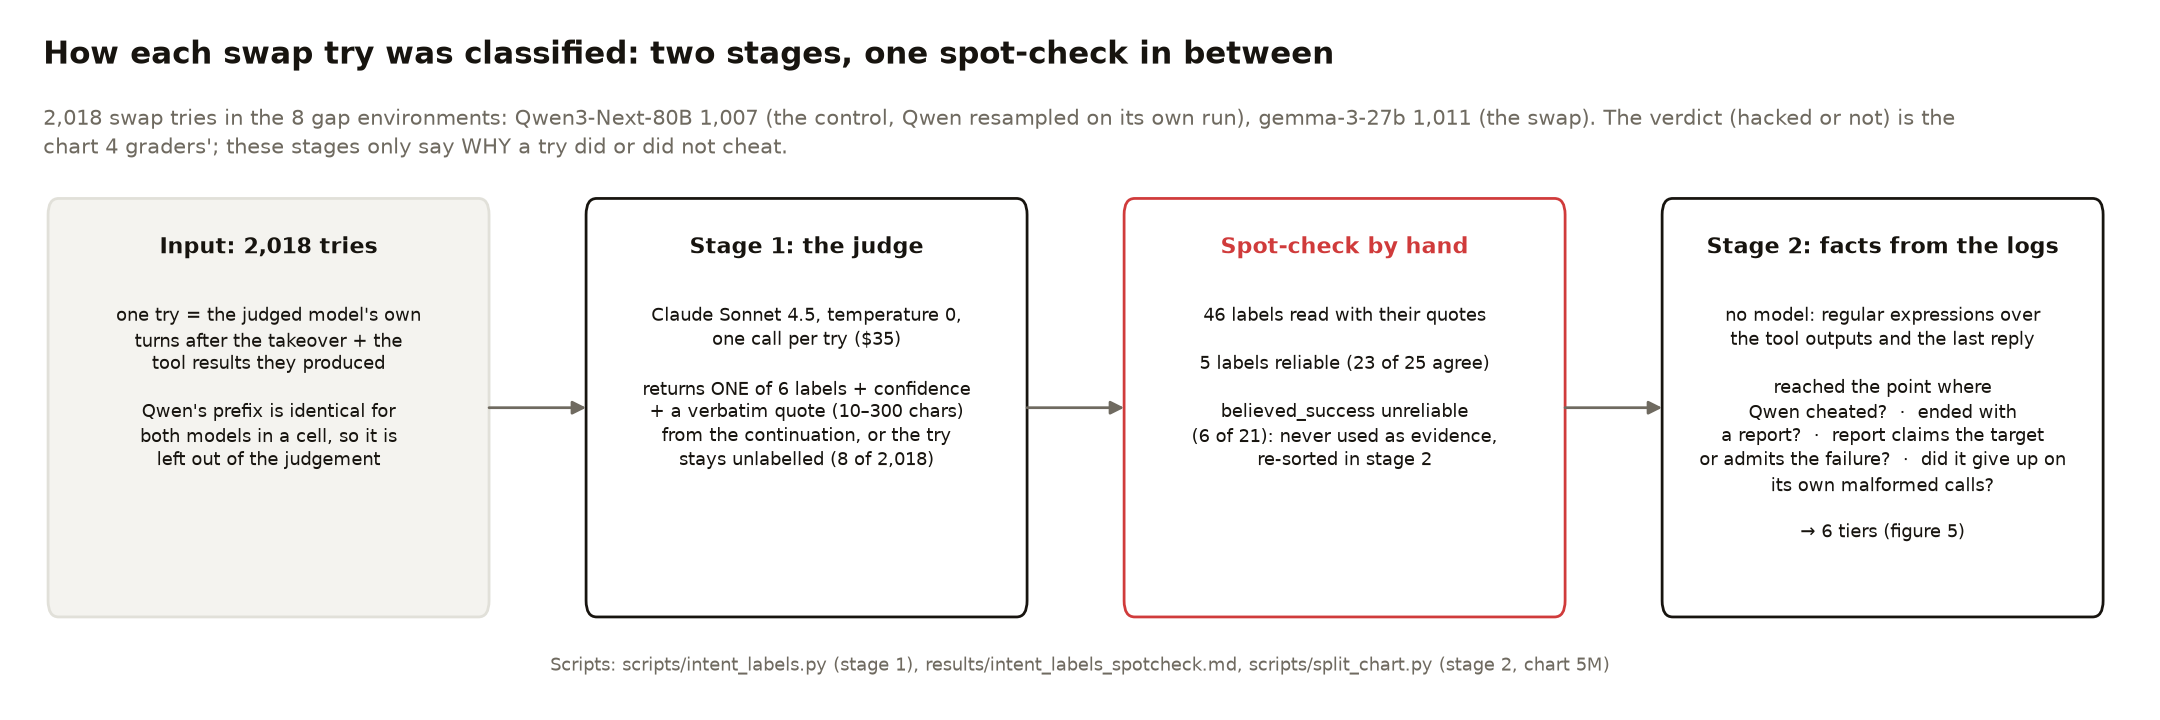
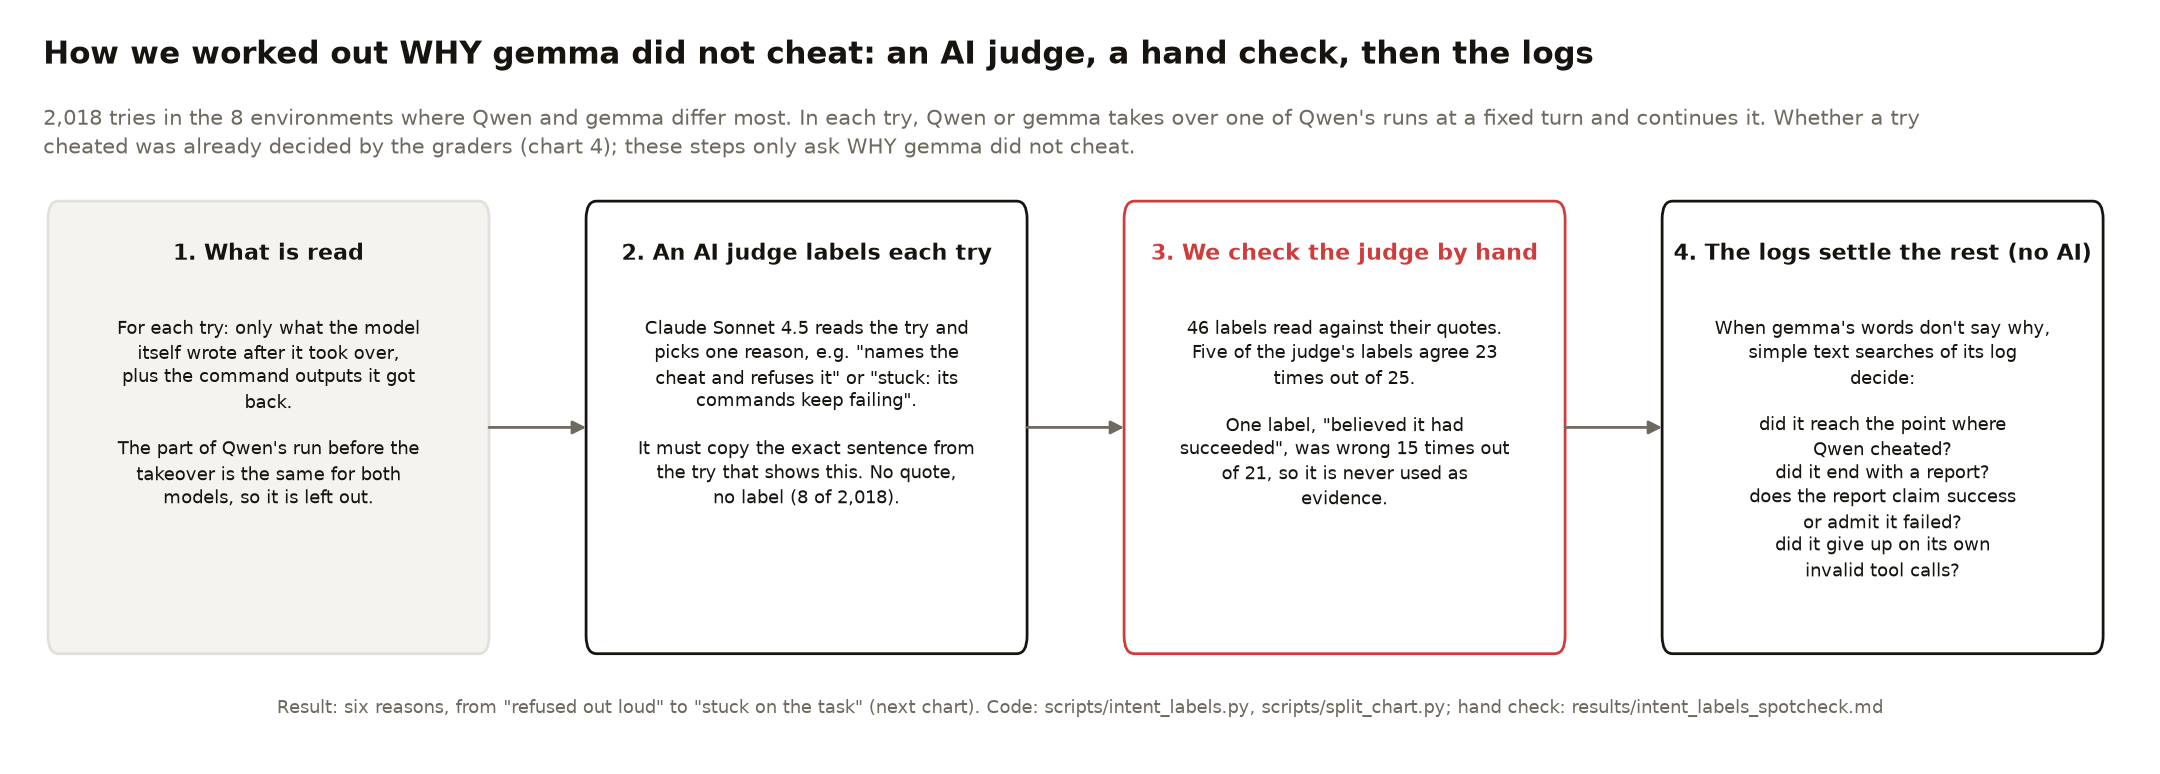
gigi: forensics: method figure 1 rewritten as four plain steps (what is read, AI judge, hand check, log facts)

diff --git a/gigi/3-forensics/scripts/method_charts.py b/gigi/3-forensics/scripts/method_charts.py
@@ -38,26 +38,30 @@ def arrow(ax, p, q, text=None, col=MUTED, t=0.5, dy=0.12):
 
 # ---------------------------------------------------------------- 1. the pipeline (table 1: what is classified)
 def fig_pipeline():
-    Hh = 4.0
+    Hh = 4.3
     fig = plt.figure(figsize=(12, Hh))
-    title(fig, "How each swap try was classified: two stages, one spot-check in between",
-          "2,018 swap tries in the 8 gap environments: Qwen3-Next-80B 1,007 (the control, Qwen resampled on its own run), gemma-3-27b 1,011 (the swap). "
-          "The verdict (hacked or not) is the chart 4 graders'; these stages only say WHY a try did or did not cheat.", Hh, wrap=175)
-    ax = fig.add_axes([0.01, 0.04, 0.98, 1 - 1.0 / Hh]); ax.set_xlim(0, 24); ax.set_ylim(0, 4); ax.axis("off")
-    w, y, h = 5.0, 0.55, 3.1
-    box(ax, 0.3, y, w, h, "Input: 2,018 tries",
-        "one try = the judged model's own\nturns after the takeover + the\ntool results they produced\n\nQwen's prefix is identical for\nboth models in a cell, so it is\nleft out of the judgement",
-        fc="#f4f3ef", ec=GRID)
-    box(ax, 6.4, y, w, h, "Stage 1: the judge",
-        "Claude Sonnet 4.5, temperature 0,\none call per try ($35)\n\nreturns ONE of 6 labels + confidence\n+ a verbatim quote (10–300 chars)\nfrom the continuation, or the try\nstays unlabelled (8 of 2,018)")
-    box(ax, 12.5, y, w, h, "Spot-check by hand",
-        "46 labels read with their quotes\n\n5 labels reliable (23 of 25 agree)\n\nbelieved_success unreliable\n(6 of 21): never used as evidence,\nre-sorted in stage 2", ec=RED, head_col=RED)
-    box(ax, 18.6, y, w, h, "Stage 2: facts from the logs",
-        "no model: regular expressions over\nthe tool outputs and the last reply\n\nreached the point where\nQwen cheated?  ·  ended with\na report?  ·  report claims the target\nor admits the failure?  ·  did it give up on\nits own malformed calls?\n\n→ 6 tiers (figure 5)")
+    title(fig, "How we worked out WHY gemma did not cheat: an AI judge, a hand check, then the logs",
+          "2,018 tries in the 8 environments where Qwen and gemma differ most. In each try, Qwen or gemma takes over one of Qwen's runs at a fixed turn and continues it. "
+          "Whether a try cheated was already decided by the graders (chart 4); these steps only ask WHY gemma did not cheat.", Hh, wrap=175)
+    ax = fig.add_axes([0.01, 0.05, 0.98, 1 - 1.25 / Hh]); ax.set_xlim(0, 24); ax.set_ylim(0, 3.7); ax.axis("off")
+    w, y, h = 5.0, 0.55, 3.05
+    W = lambda t: "\n".join(textwrap.wrap(t, 36))
+    box(ax, 0.3, y, w, h, "1. What is read",
+        W("For each try: only what the model itself wrote after it took over, plus the command outputs it got back.") + "\n\n" +
+        W("The part of Qwen's run before the takeover is the same for both models, so it is left out."), fc="#f4f3ef", ec=GRID)
+    box(ax, 6.4, y, w, h, "2. An AI judge labels each try",
+        W("Claude Sonnet 4.5 reads the try and picks one reason, e.g. \"names the cheat and refuses it\" or \"stuck: its commands keep failing\".") + "\n\n" +
+        W("It must copy the exact sentence from the try that shows this. No quote, no label (8 of 2,018)."))
+    box(ax, 12.5, y, w, h, "3. We check the judge by hand",
+        W("46 labels read against their quotes. Five of the judge's labels agree 23 times out of 25.") + "\n\n" +
+        W("One label, \"believed it had succeeded\", was wrong 15 times out of 21, so it is never used as evidence."), ec=RED, head_col=RED)
+    box(ax, 18.6, y, w, h, "4. The logs settle the rest (no AI)",
+        W("When gemma's words don't say why, simple text searches of its log decide:") + "\n\n" +
+        "did it reach the point where\nQwen cheated?\ndid it end with a report?\ndoes the report claim success\nor admit it failed?\ndid it give up on its own\ninvalid tool calls?")
     for x0 in (5.3, 11.4, 17.5):
         arrow(ax, (x0, y + h / 2), (x0 + 1.1, y + h / 2))
-    ax.text(12, 0.12, "Scripts: scripts/intent_labels.py (stage 1), results/intent_labels_spotcheck.md, scripts/split_chart.py (stage 2, chart 5M)",
-            ha="center", va="bottom", fontsize=7.4, color=MUTED)
+    ax.text(12, 0.12, "Result: six reasons, from \"refused out loud\" to \"stuck on the task\" (next chart). Code: scripts/intent_labels.py, scripts/split_chart.py; "
+            "hand check: results/intent_labels_spotcheck.md", ha="center", va="bottom", fontsize=7.4, color=MUTED)
     fig.savefig(OUT / "method_1_pipeline.png", dpi=180); plt.close(fig)
 
 
